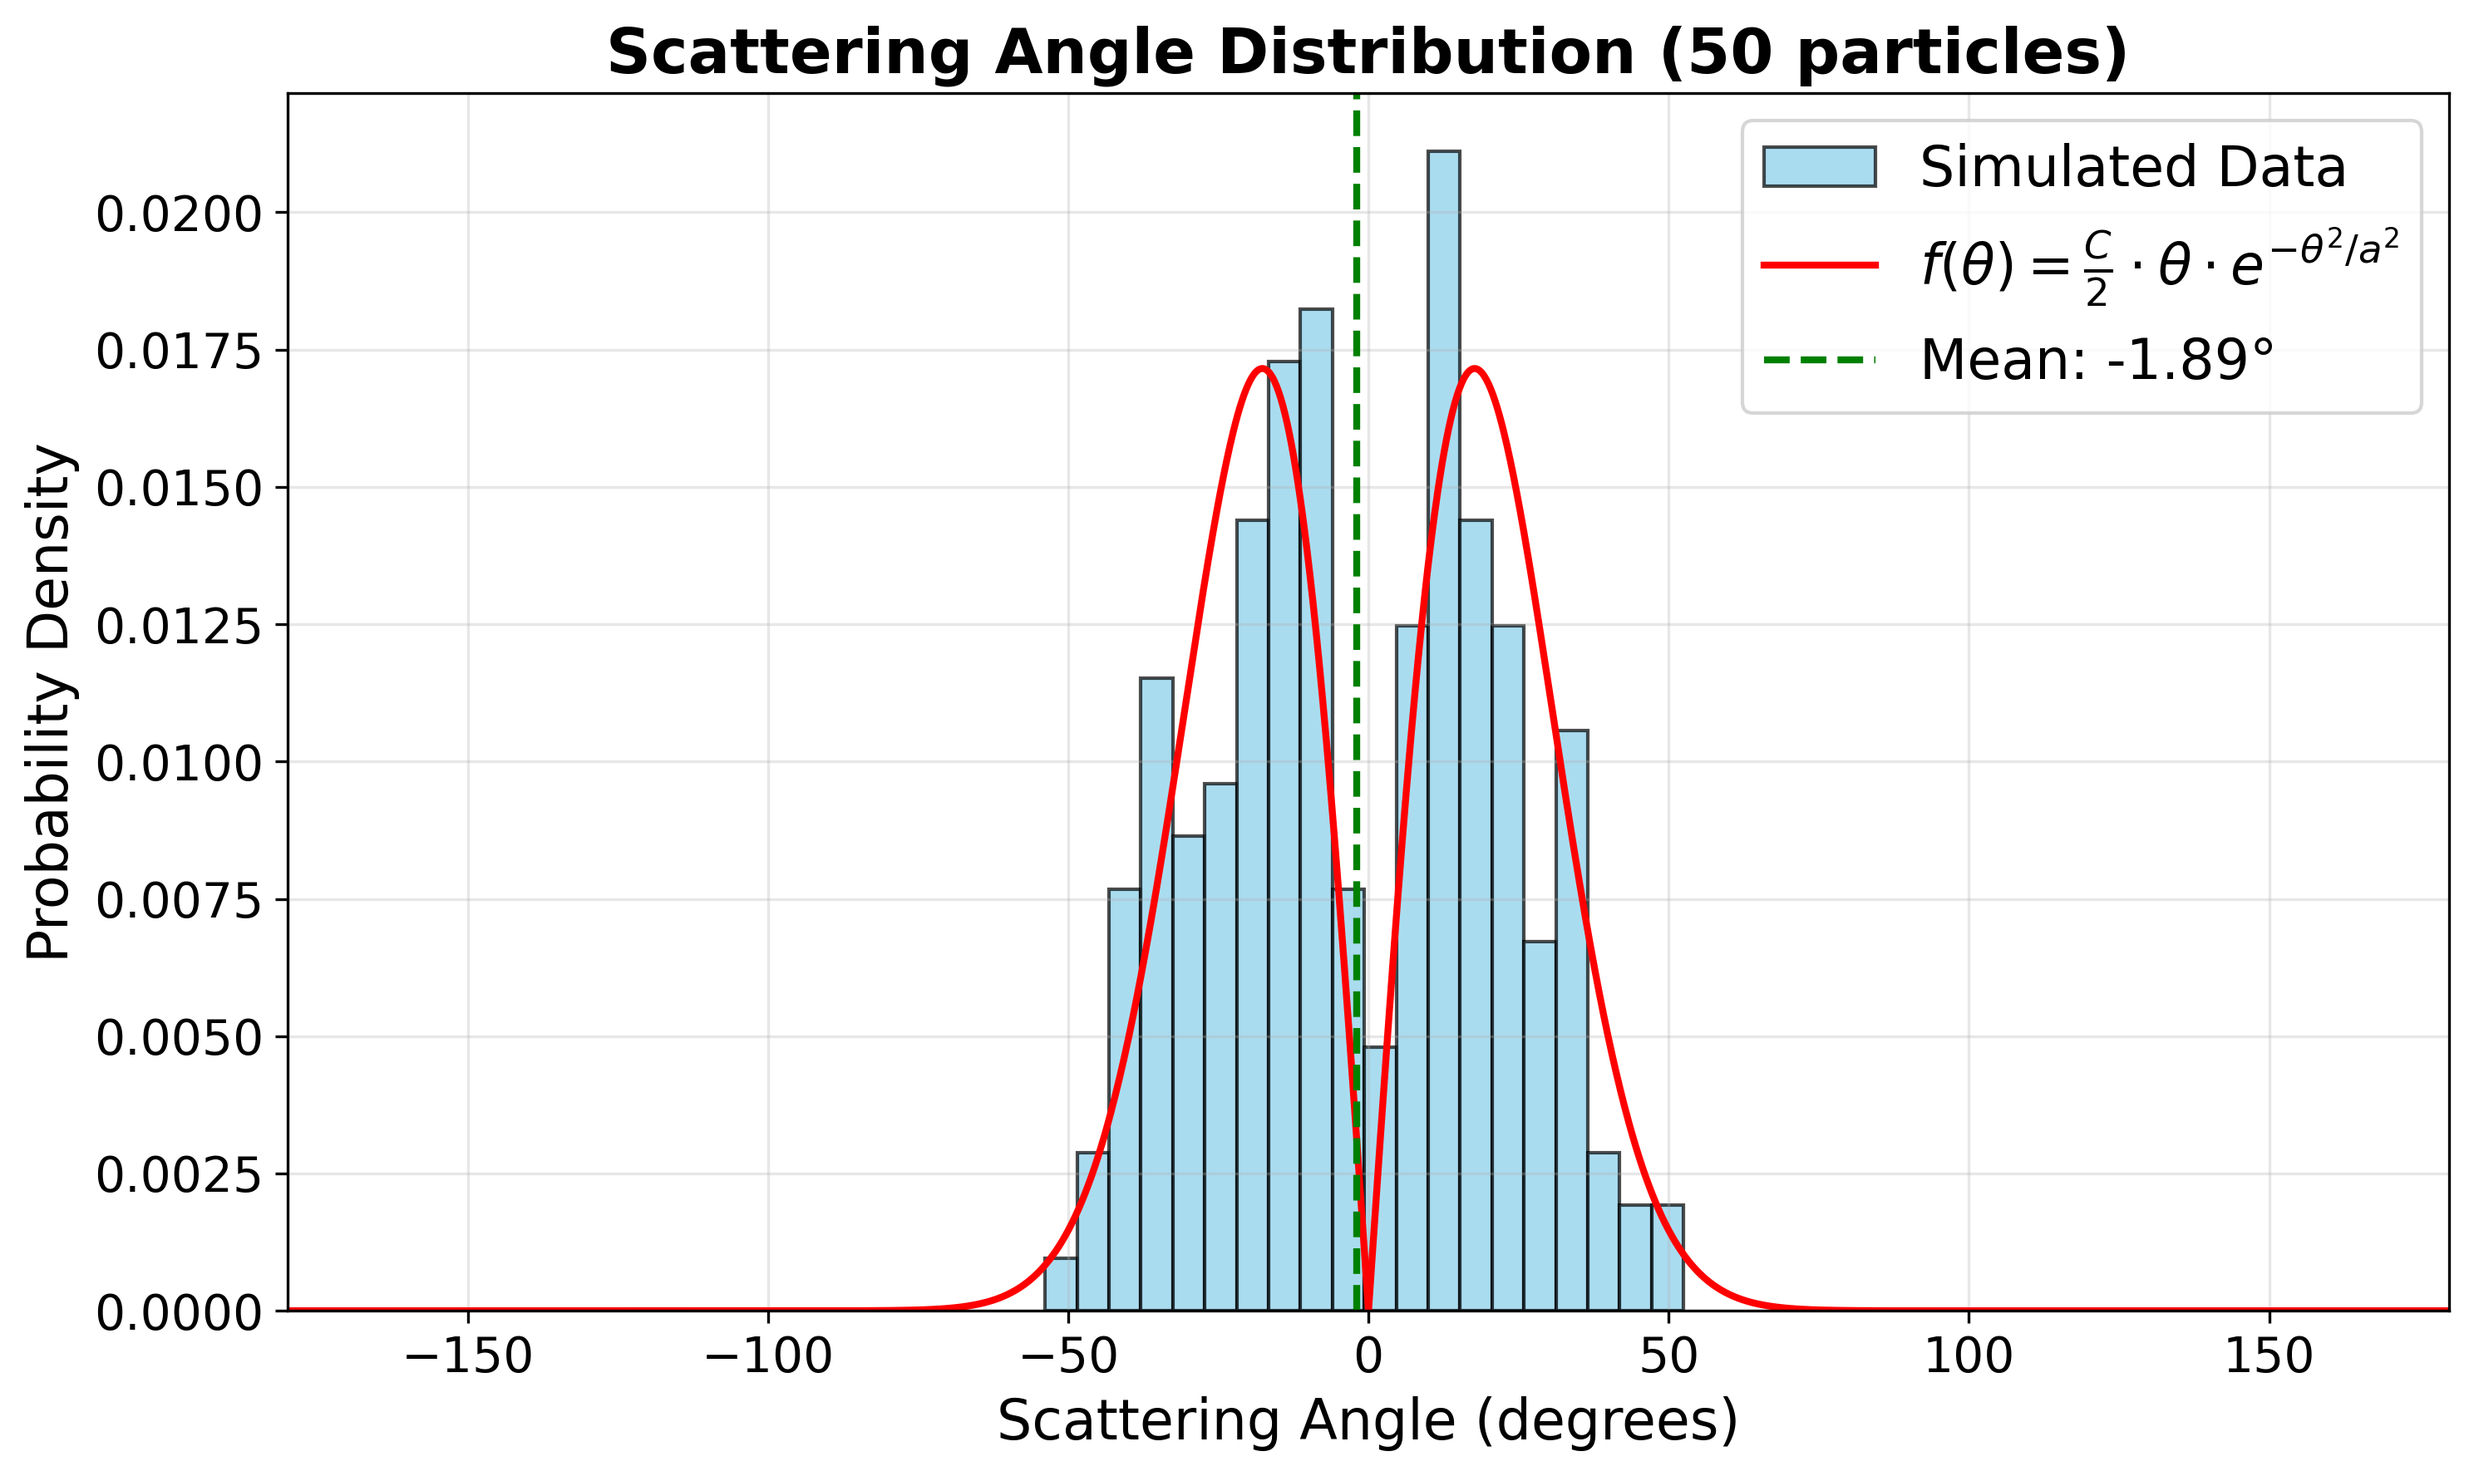
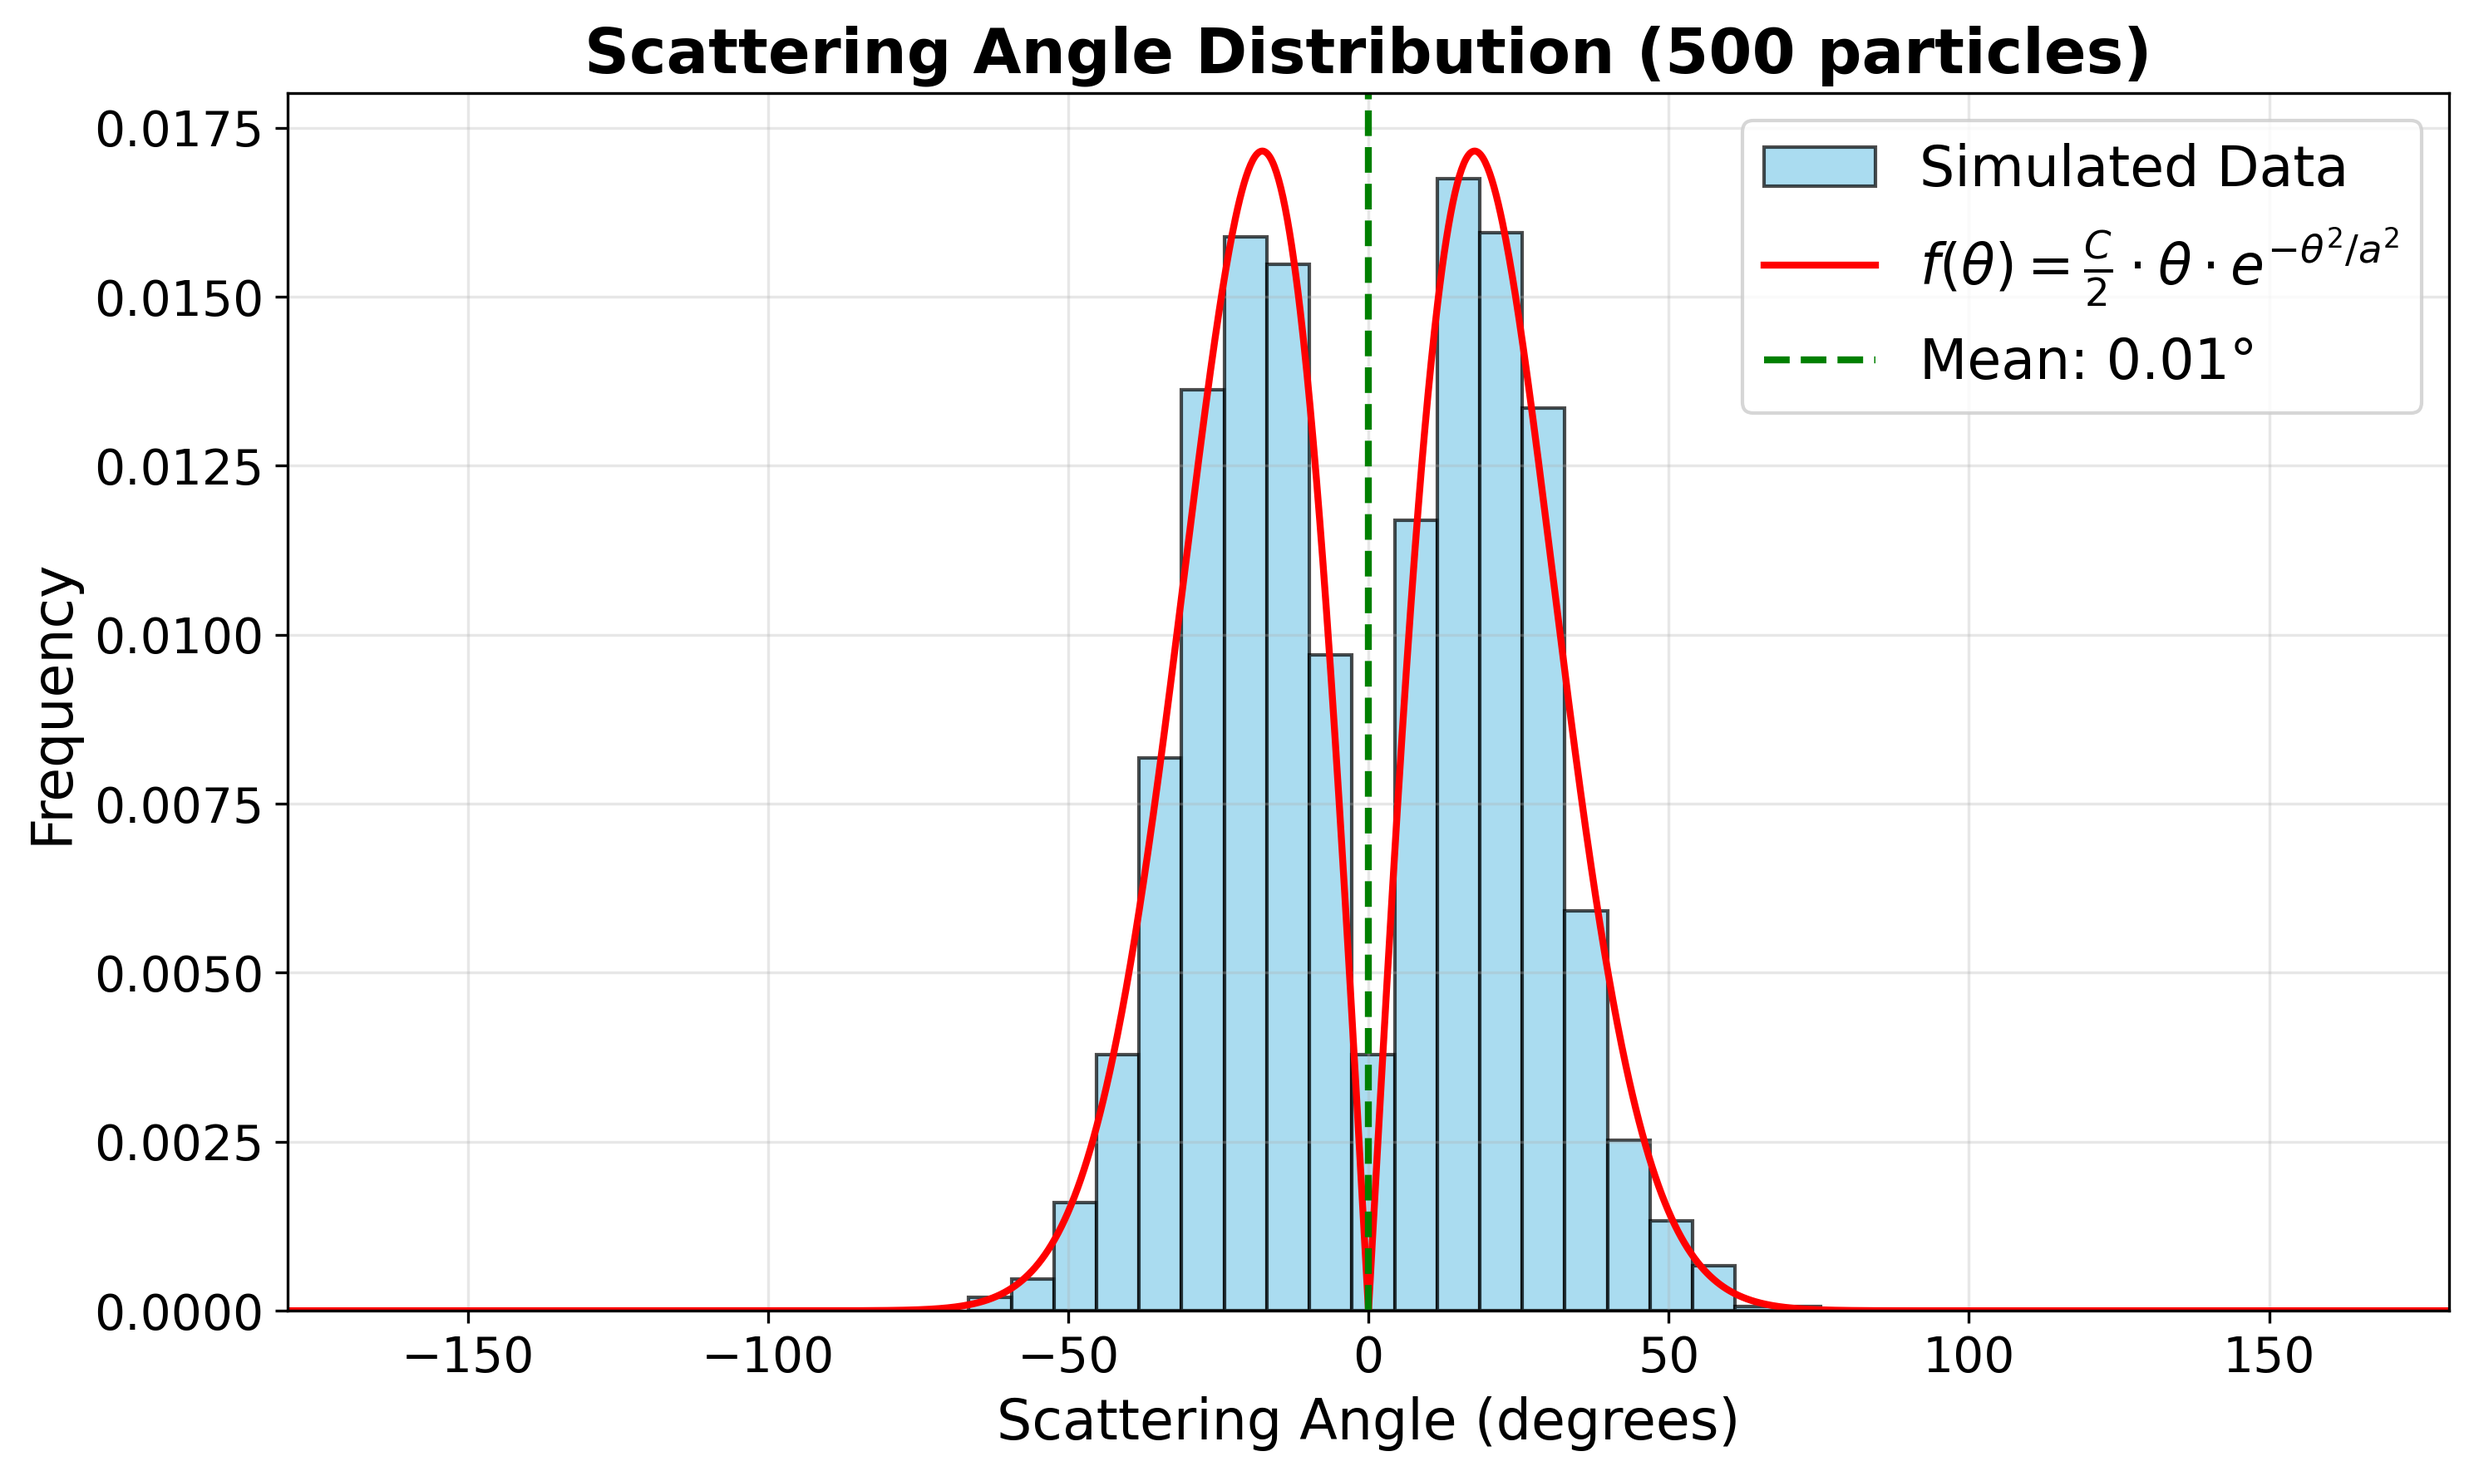
c

diff --git a/exercise3/ex3.py b/exercise3/ex3.py
@@ -4,7 +4,7 @@ import matplotlib.pyplot as plt
 X=np.arange(-5,100,1)
 Y=np.arange(-50,50,1)
 
-N=50
+N=500
 
 
 all_x_paths = []
@@ -15,6 +15,11 @@ distances_tot = []
 
 abs_interactions=0
 scat_interactions=0
+
+count5=0
+count20=0
+y5=[]
+y20=[]
 
 
 for n in range(N):
@@ -27,6 +32,7 @@ for n in range(N):
 
     val=True
     step=0
+
 
     x_path=[x]
     y_path=[y]
@@ -42,6 +48,17 @@ for n in range(N):
         rn1=np.random.rand()
         distance=-np.log(1-rn1)
         distance_tot=distance_tot+distance
+
+        if x<5 and x+distance*np.cos(np.radians(angle))>=5:
+            count5=count5+1
+            y5_val=y+(5-x)*np.tan(np.radians(angle))
+            y5.append(y5_val)
+
+        if x<20 and x+distance*np.cos(np.radians(angle))>=20:
+            count20=count20+1
+            y20_val=y+(20-x)*np.tan(np.radians(angle))
+            y20.append(y20_val)
+
 
         angles_path.append(angle)
         distance_path.append(distance)
@@ -91,6 +108,8 @@ for n in range(N):
 # results
 ratio=abs_interactions/scat_interactions
 print(f"ratio of absorption-scattering interactions: r={ratio}")
+print(f"number of particle reachin the detector at x=5mm: count(5)={count5}")
+print(f"number of particle reachin the detector at x=20mm: count(20)={count20}")
 """
 print("total path for each particle")
 print(distances_tot)
@@ -108,13 +127,16 @@ print("path for each particle at each step")
 print(all_distance_paths)
 """
 
+
+###PLOT
+
 #plot distribution total distance
 plt.figure(figsize=(10, 6))
 plt.hist(distances_tot, bins=20, edgecolor='black', alpha=0.7, color='skyblue', density=True, label='simulated data')
 plt.axvline(np.mean(distances_tot), color='r', linestyle='--', linewidth=2, 
             label=f'Mean: {np.mean(distances_tot):.2f}')
 plt.xlabel('Path lenght', fontsize=16)
-plt.ylabel('Number of Particles', fontsize=16)
+plt.ylabel('Frequency', fontsize=16)
 plt.title(f'Total Path Lenght Distribution ({N} particles)', fontsize=18, fontweight='bold')
 plt.legend(fontsize=16)
 plt.grid(True, alpha=0.3)
@@ -140,7 +162,7 @@ plt.plot(x_theory, np.exp(-x_theory), 'r-', linewidth=2, label='$f(x)=e^{-x}$')
 plt.axvline(np.mean(all_distances_flat), color='g', linestyle='--', linewidth=2, 
             label=f'Mean: {np.mean(all_distances_flat):.2f}')
 plt.xlabel('Path length', fontsize=16)
-plt.ylabel('Probability Density', fontsize=16)
+plt.ylabel('Frequency', fontsize=16)
 plt.title(f'Single-Step Path Length Distribution ({N} particles)', 
           fontsize=18, fontweight='bold')
 plt.legend(fontsize=16)
@@ -183,7 +205,7 @@ plt.axvline(np.mean(all_angles_flat), color='g', linestyle='--', linewidth=2,
 
 
 plt.xlabel('Scattering Angle (degrees)', fontsize=16)
-plt.ylabel('Probability Density', fontsize=16)
+plt.ylabel('Frequency', fontsize=16)
 plt.title(f'Scattering Angle Distribution ({N} particles)', 
           fontsize=18, fontweight='bold')
 plt.legend(fontsize=16)
@@ -240,7 +262,7 @@ ax2.set_xlim(x_zoom_min, x_zoom_max)
 ax2.set_ylim(y_zoom_min, y_zoom_max)
 ax2.set_xlabel('x', fontsize=16)
 ax2.set_ylabel('y', fontsize=16)
-ax2.set_title(f'Zoomed View', fontsize=18, fontweight='bold')
+ax2.set_title(f'Zoomed View: {N} particle trajectories', fontsize=18, fontweight='bold')
 ax2.grid(True, alpha=0.3)
 ax2.tick_params(axis='both', which='major', labelsize=14)
 
@@ -257,3 +279,37 @@ ax1.legend(fontsize=16, loc='best')
 plt.tight_layout() 
 plt.savefig("path.png", dpi=300, bbox_inches='tight')
 plt.show()
+
+#plot distribution detector 5
+if count5>0:
+    plt.figure(figsize=(10, 6))
+    plt.hist(y5, bins=20, edgecolor='black', alpha=0.7, color='skyblue', density=True, label='simulated data')
+    plt.axvline(np.mean(y5), color='r', linestyle='--', linewidth=2, 
+                label=f'Mean: {np.mean(y5):.2f}')
+    plt.xlabel('Position along y-axis', fontsize=16)
+    plt.ylabel('Frequency', fontsize=16)
+    plt.title(f'Position Distribution at 5mm ({N} particles)', fontsize=18, fontweight='bold')
+    plt.suptitle(f'{count5} particles reached the detector', fontsize=16)
+    plt.legend(fontsize=16)
+    plt.grid(True, alpha=0.3)
+    plt.tick_params(axis='both', which='major', labelsize=14)
+    plt.tight_layout()
+    plt.savefig("dec5.png", dpi=300, bbox_inches='tight')
+    plt.show()
+
+#plot distribution detector 20
+if count20>0:
+    plt.figure(figsize=(10, 6))
+    plt.hist(y20, bins=20, edgecolor='black', alpha=0.7, color='skyblue', density=True, label='simulated data')
+    plt.axvline(np.mean(y20), color='r', linestyle='--', linewidth=2, 
+            label=f'Mean: {np.mean(y20):.2f}')
+    plt.xlabel('Position along y-axis', fontsize=16)
+    plt.ylabel('Frequency', fontsize=16)
+    plt.title(f'Position Distribution at 20mm ({N} particles)', fontsize=18, fontweight='bold')
+    plt.suptitle(f'{count20} particles reached the detector', fontsize=16)
+    plt.legend(fontsize=16)
+    plt.grid(True, alpha=0.3)
+    plt.tick_params(axis='both', which='major', labelsize=14)
+    plt.tight_layout()
+    plt.savefig("dec20.png", dpi=300, bbox_inches='tight')
+    plt.show()
